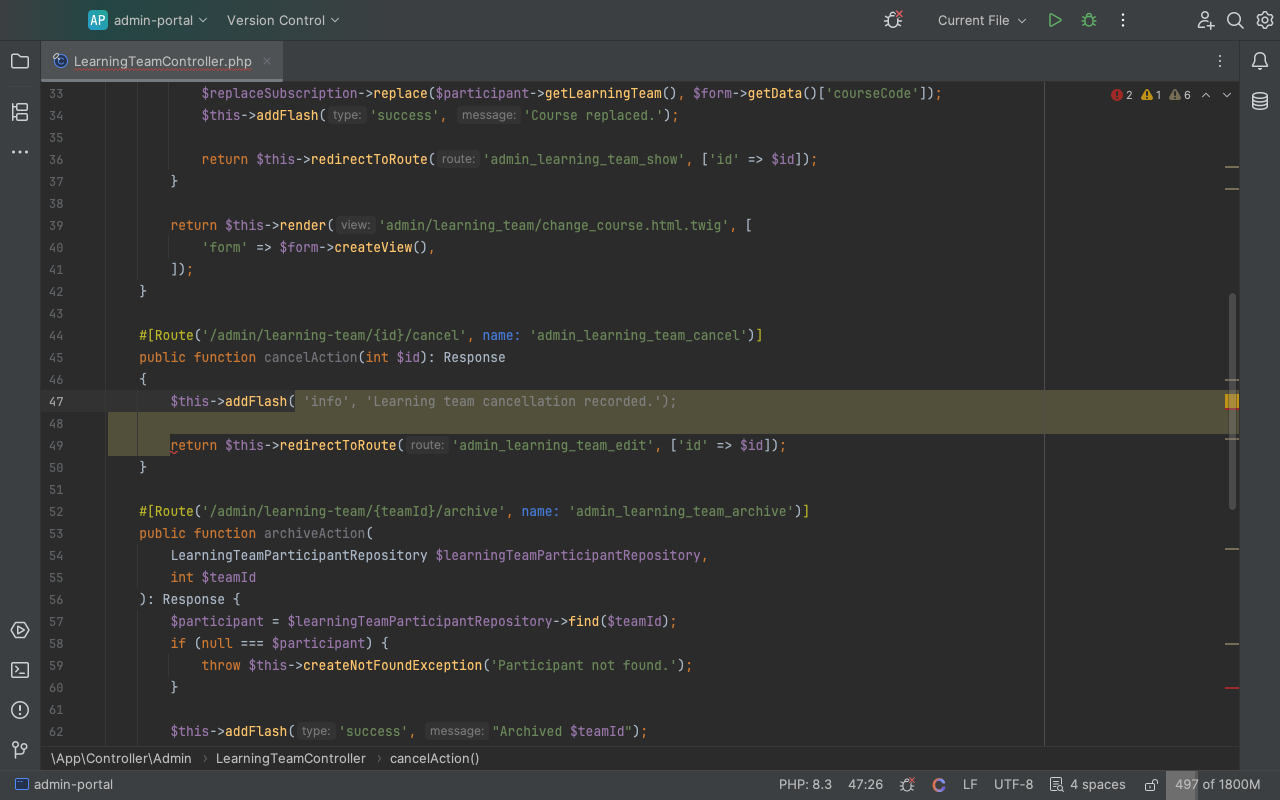
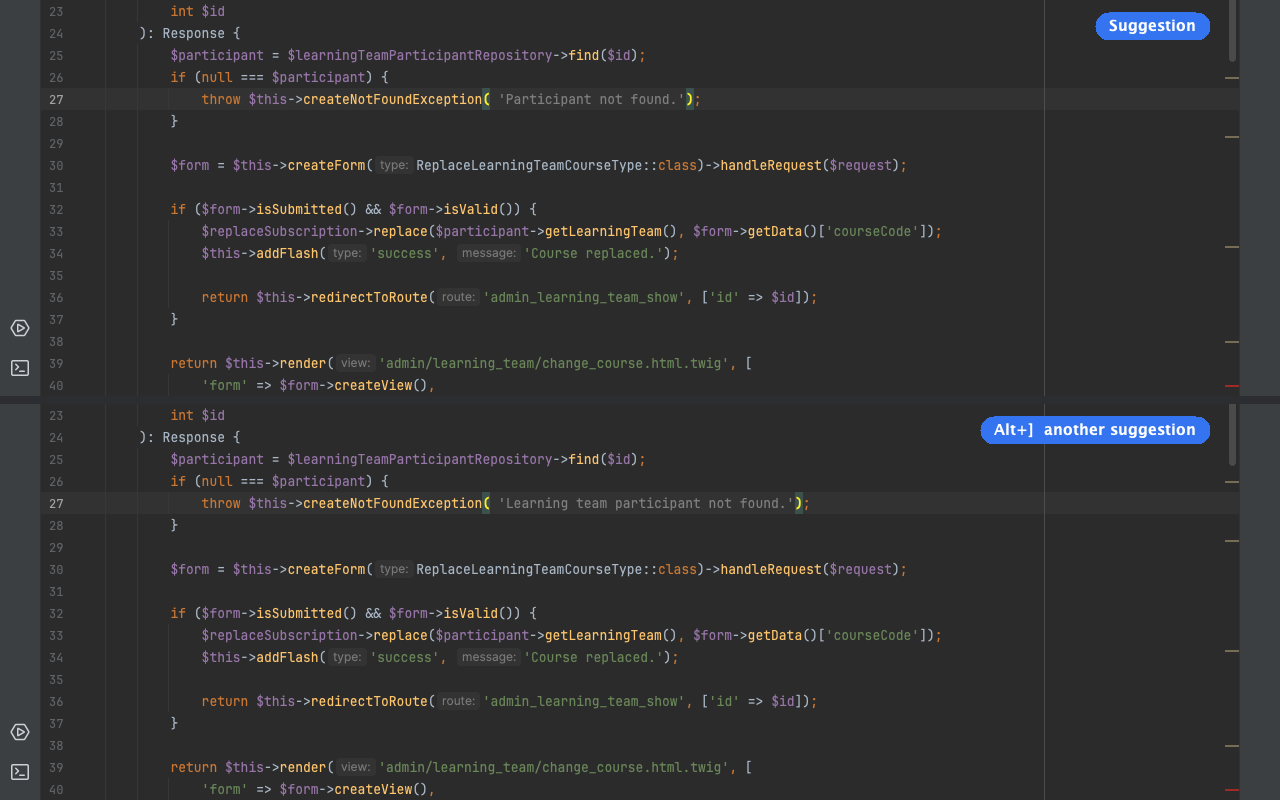
chore(docs): re-record whole-method gif and alternatives shot
Whole-method types a signature character by character. Alternatives uses a call without required parameters so no inspection tints the editor, and shows the first suggestion and the Alt+] alternative one above the other.

diff --git a/src/uiTest/kotlin/dev/ksurdy/claudeautocomplete/ui/CompletionScenes.kt b/src/uiTest/kotlin/dev/ksurdy/claudeautocomplete/ui/CompletionScenes.kt
@@ -24,14 +24,26 @@ class CompletionScenes(private val stage: MediaStage) {
     fun wholeMethod(): String? = retrying { stage.record("whole-method") { editor, recorder -> wholeMethodScene(editor, recorder) } }
 
     private fun wholeMethodScene(editor: JEditorUiComponent, recorder: FrameRecorder): String? {
-        val (seeded, caret) = Seed(BETWEEN_METHODS, "    }$CARET\n\n    #[Route('/admin/learning-team/replace-course'").apply(original)
+        val (seeded, caret) = Seed(BETWEEN_METHODS, "    }\n\n    $CARET\n\n    #[Route('/admin/learning-team/replace-course'").apply(original)
         stage.seed(editor, seeded, caret, METHOD_ROW)
         recorder.start()
         Thread.sleep(LEAD_IN_MS)
-        val finishedBefore = log.finished().size
+        stage.type(editor, METHOD_HEAD, METHOD_TYPING_MS)
+        val requestedBefore = log.requested()
         val linesBefore = log.lines().size
-        runner.enter(editor)
-        return shownProblem(editor, linesBefore) { runner.awaitCompletion(finishedBefore) } ?: acceptProblem(editor, MIN_METHOD_LINES)
+        editor.typeCharacter(stage.driver, METHOD_OPEN)
+        if (!awaitRequest(requestedBefore)) return "typing the parenthesis did not request a suggestion"
+        val last = runner.awaitCompletion(log.finished().size)
+        return shownProblem(editor, linesBefore) { last } ?: acceptProblem(editor, MIN_METHOD_LINES)
+    }
+
+    private fun awaitRequest(before: Int): Boolean {
+        val deadline = System.nanoTime() + REQUEST_TIMEOUT_MS * NANOS_PER_MS
+        while (System.nanoTime() < deadline) {
+            if (log.requested() > before) return true
+            Thread.sleep(POLL_MS)
+        }
+        return false
     }
 
     fun midLine(): String? = suggestion("mid-line") { editor ->
@@ -44,20 +56,32 @@ class CompletionScenes(private val stage: MediaStage) {
         shownProblem(editor, linesBefore) { runner.awaitCompletion(finishedBefore) }
     }
 
-    fun alternatives(): String? = suggestion("alternatives") { editor ->
-        val seed = Seed(FLASH_LINE, "        \$this->addFlash(${CARET}")
+    fun alternatives(): String? {
+        var problem: String? = null
+        stage.withEditor { editor -> problem = alternativesScene(editor) }
+        return problem
+    }
+
+    private fun alternativesScene(editor: JEditorUiComponent): String? {
+        val seed = Seed(NOT_FOUND_ANCHOR, "throw \$this->createNotFoundException($CARET);\n        }\n\n        \$form")
         val (seeded, caret) = seed.apply(original)
         stage.seed(editor, seeded, caret, MID_LINE_ROW)
         val finishedBefore = log.finished().size
         val linesBefore = log.lines().size
         editor.typeCharacter(stage.driver, ' ')
-        shownProblem(editor, linesBefore) { runner.awaitCompletion(finishedBefore) }?.let { return@suggestion it }
+        shownProblem(editor, linesBefore) { runner.awaitCompletion(finishedBefore) }?.let { return it }
         val first = editor.shownText()
+        val firstShot = stage.snap("alternatives-first")
         val secondBefore = log.finished().size
         val secondLines = log.lines().size
         stage.driver.invokeAction(NEXT_ACTION, true, editor.component)
-        shownProblem(editor, secondLines) { runner.awaitCompletion(secondBefore) }?.let { return@suggestion it }
-        if (editor.shownText().trim() == first.trim()) "the alternative equals the first suggestion" else null
+        shownProblem(editor, secondLines) { runner.awaitCompletion(secondBefore) }?.let { return it }
+        if (editor.shownText().trim() == first.trim()) return "the alternative equals the first suggestion"
+        val secondShot = stage.snap("alternatives-second")
+        val target = stage.outDir.resolve("alternatives.png")
+        ComparisonShot.compose(firstShot, secondShot, target)
+        stage.reportSize(target)
+        return null
     }
 
     private fun suggestion(name: String, scene: (JEditorUiComponent) -> String?): String? {
@@ -107,8 +131,14 @@ class CompletionScenes(private val stage: MediaStage) {
     private companion object {
         const val EMPTY_ACTION_ANCHOR = "StudentLearningTeamResolver \$studentLearningTeamResolver\n    ): Response {"
         const val REDIRECT_LINE = "        return \$this->redirectToRoute('admin_learning_team_edit', ['id' => \$id]);"
-        const val FLASH_LINE = "        \$this->addFlash('info', 'Change cancelled.');"
+        const val NOT_FOUND_ANCHOR = "throw \$this->createNotFoundException('Participant not found.');\n        }\n\n        \$form"
         const val BETWEEN_METHODS = "    }\n\n    #[Route('/admin/learning-team/replace-course'"
+        const val METHOD_HEAD = "public function restoreAction"
+        const val METHOD_OPEN = '('
+        const val METHOD_TYPING_MS = 90L
+        const val REQUEST_TIMEOUT_MS = 10_000L
+        const val POLL_MS = 100L
+        const val NANOS_PER_MS = 1_000_000L
         const val NEXT_ACTION = "NextInlineCompletionSuggestionAction"
         const val ESCAPE_ACTION = "EditorEscape"
         const val RESET_MS = 800L

diff --git a/src/uiTest/kotlin/dev/ksurdy/claudeautocomplete/ui/ComparisonShot.kt b/src/uiTest/kotlin/dev/ksurdy/claudeautocomplete/ui/ComparisonShot.kt
@@ -1,0 +1,49 @@
+package dev.ksurdy.claudeautocomplete.ui
+
+import java.awt.Color
+import java.awt.Font
+import java.awt.RenderingHints
+import java.awt.image.BufferedImage
+import java.nio.file.Path
+import javax.imageio.ImageIO
+
+object ComparisonShot {
+    private const val WIDTH = MediaStage.FRAME_WIDTH
+    private const val HEIGHT = MediaStage.FRAME_HEIGHT
+    private const val GAP = 8
+    private const val PANEL_HEIGHT = 396
+    private const val CROP_TOP = 302
+    private const val LABEL_RIGHT = 1210
+    private const val LABEL_TOP = 12
+    private const val LABEL_HEIGHT = 28
+    private const val LABEL_PADDING = 14
+    private val BACKGROUND = Color(0x2B2D30)
+    private val LABEL_FILL = Color(0x3574F0)
+    private val LABEL_TEXT = Color.WHITE
+    private val FONT = Font(Font.SANS_SERIF, Font.BOLD, 15)
+
+    fun compose(first: Path, second: Path, target: Path) {
+        val canvas = BufferedImage(WIDTH, HEIGHT, BufferedImage.TYPE_INT_RGB)
+        val graphics = canvas.createGraphics()
+        graphics.color = BACKGROUND
+        graphics.fillRect(0, 0, WIDTH, HEIGHT)
+        graphics.setRenderingHint(RenderingHints.KEY_TEXT_ANTIALIASING, RenderingHints.VALUE_TEXT_ANTIALIAS_ON)
+        graphics.font = FONT
+        panel(graphics, first, 0, "Suggestion")
+        panel(graphics, second, PANEL_HEIGHT + GAP, "Alt+]  another suggestion")
+        graphics.dispose()
+        check(ImageIO.write(canvas, "png", target.toFile())) { "no png writer for $target" }
+    }
+
+    private fun panel(graphics: java.awt.Graphics2D, source: Path, top: Int, label: String) {
+        val shot = ImageIO.read(source.toFile())
+        graphics.drawImage(shot.getSubimage(0, CROP_TOP, WIDTH, PANEL_HEIGHT), 0, top, null)
+        val textWidth = graphics.fontMetrics.stringWidth(label)
+        val width = textWidth + LABEL_PADDING * 2
+        val left = LABEL_RIGHT - width
+        graphics.color = LABEL_FILL
+        graphics.fillRoundRect(left, top + LABEL_TOP, width, LABEL_HEIGHT, LABEL_HEIGHT, LABEL_HEIGHT)
+        graphics.color = LABEL_TEXT
+        graphics.drawString(label, left + LABEL_PADDING, top + LABEL_TOP + LABEL_HEIGHT / 2 + graphics.fontMetrics.ascent / 2 - 2)
+    }
+}

diff --git a/src/uiTest/kotlin/dev/ksurdy/claudeautocomplete/ui/MediaStage.kt b/src/uiTest/kotlin/dev/ksurdy/claudeautocomplete/ui/MediaStage.kt
@@ -83,6 +83,12 @@ class MediaStage(
         reportSize(target)
     }
 
+    fun snap(name: String): Path {
+        val target = Files.createTempFile(workDir, "$name-", ".${IdeCanvas.FAST_FORMAT}")
+        canvas.paint(target)
+        return target
+    }
+
     fun reportSize(target: Path) {
         val image: BufferedImage = ImageIO.read(target.toFile())
         println("MEDIA ${target.fileName}: ${image.width}x${image.height}")
